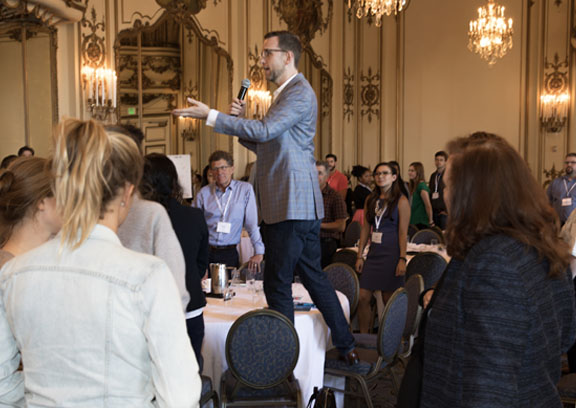
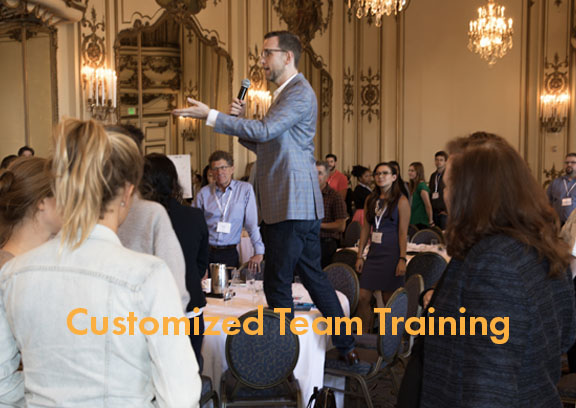
edits to carousel and media queries

Changed region(s): [[0.0938, 0.7353, 0.9062, 0.8529]]

diff --git a/index.html b/index.html
@@ -341,20 +341,20 @@
                 <img src="./assets/img/tim/with-erica.jpg" class="d-block w-100"
                   alt="With Erica Lockheier of LinkedIn Learning">
                 <div class="carousel-caption d-none d-md-block">
-                  <h5 id="service-text">Individual Coaching</h5>
+                 <!-- <h5 id="service-text">Individual Coaching</h5>--->
                 </div>
               </div>
               <div class="carousel-item" data-bs-interval="2000">
                 <img src="./assets/img/tim/two-min-talk.jpg" class="d-block w-100" alt="Tim working with a small group">
                 <div class="carousel-caption d-none d-md-block">
-                  <h5 id="service-text">Leadership Development</h5>
+                  <!--<h5 id="service-text">Leadership Development</h5>-->
                 </div>
               </div>
               <div class="carousel-item">
                 <img src="./assets/img/tim/owning-it.jpg" class="d-block w-100"
                   alt="Photo of Tim engaging a large crowd.">
                 <div class="carousel-caption d-none d-md-block">
-                  <h5 id="service-text">Customized Team Training</h5>
+                  <!--<h5 id="service-text">Customized Team Training</h5>-->
                 </div>
               </div>
             </div>

diff --git a/assets/css/index.css b/assets/css/index.css
@@ -287,7 +287,7 @@ button {
 
     #test-quote {
         width: 100%;
-        margin: 10px 0 50px 0;
+        margin: auto;
     }
 
     #test-head {
@@ -316,7 +316,8 @@ button {
     }
 
     #footer-text {
-        font-size: 18px;
+        font-size: 14px;
+        text-align: center;
     }
 
     #contact-links {
@@ -397,6 +398,11 @@ button {
     #service-text {
         font-size: 18px;
         height: 20px;
+    }
+
+    #footer-text {
+        font-size: 18px;
+        text-align: center;
     }
 
   }

diff --git a/README.md b/README.md
@@ -3,10 +3,10 @@
 
 ![alt text](./assets/img/logos/40-Watt-small-For-Web-Color.jpg)
 
-## Graphic Design:
+#### Graphic Design:
 Sarah DeMercurio
 
-## Developer:
+#### Developer:
 Sarah DeMercurio
 
 
